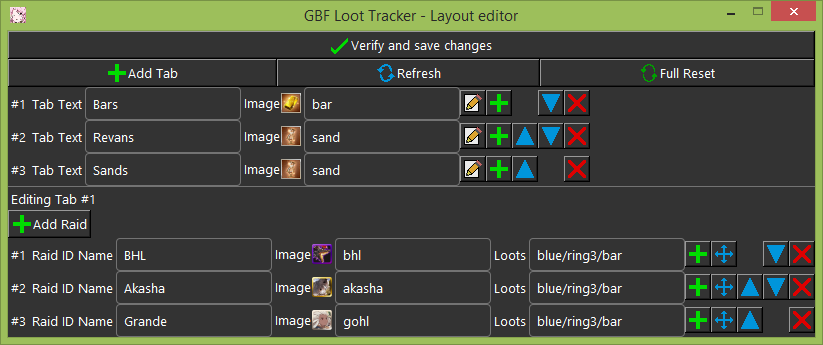
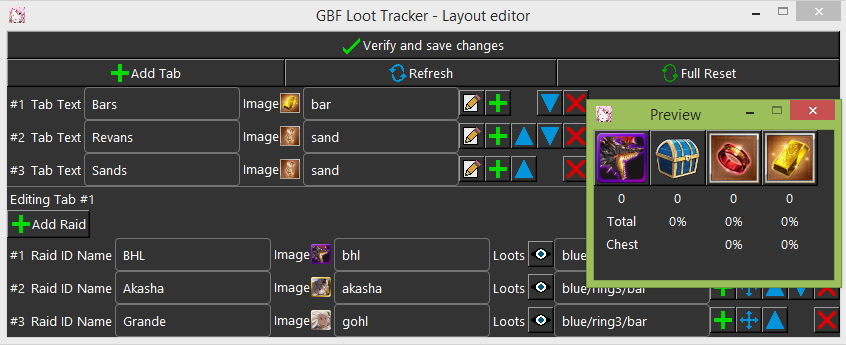
1.38 notification welcome messages and editor preview

diff --git a/readme.md b/readme.md
@@ -74,6 +74,7 @@ Under the `settings` tab of the tracker, press the button `Layout Editor` to ope
 - In the bottom area, in a similar fashion, you edit a raid `Text` and `Image` values (the image must be a 20x20 pixels PNG file in the `assets/tabs` folder and another 50x50 PNG file in the`assets/buttons` folder).  
 - To edit the `Loots`, simply put the list of item images (each image must be a 50x50 pixels PNG file in the `assets/buttons` folder) separated by `/` characters. No duplicates allowed in a same list. Only one chest (`wood`, `silver`, `gold`, `red`, `blue`, `purple`) allowed too.  
 - All values are case-sensitive.  
+- You can use the 'eye' button near the loot list to check how the raid will look like. If there is a problem, a 'warning' button will be present in the preview. Press it to see the list of issues.  
   
 Once you're done, click on `Save changes to 'raids.json'` at the top. If errors occured, fix what you did wrong. If no errors occured, (re)start `tracker.pyw` to check how your changes look.  
 Contact me or open an issue if you find bugs.  
